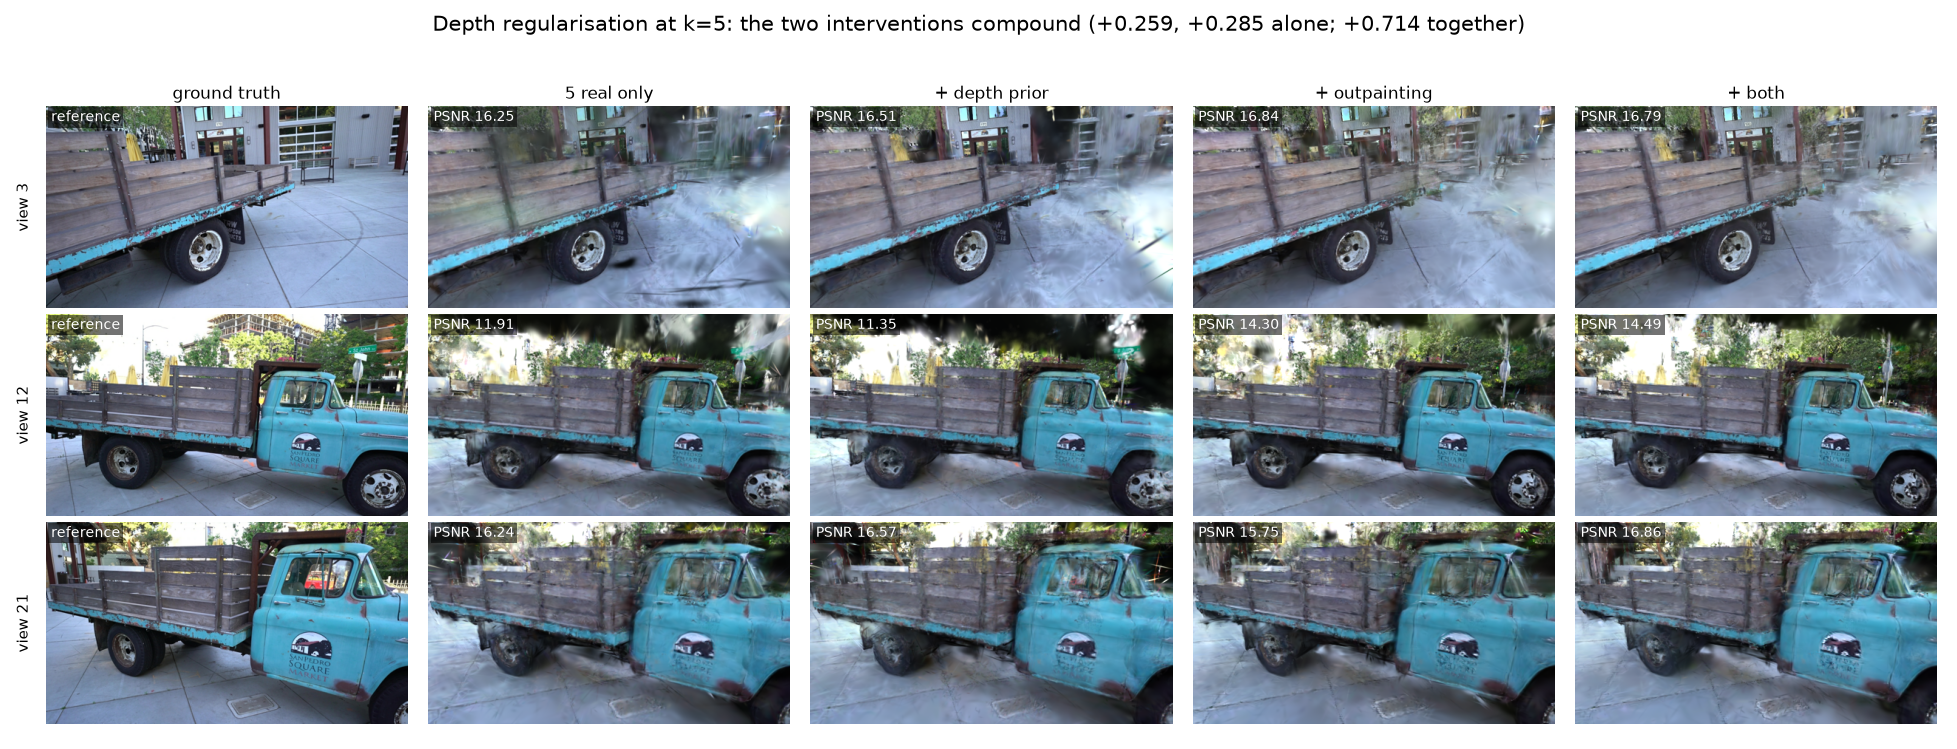
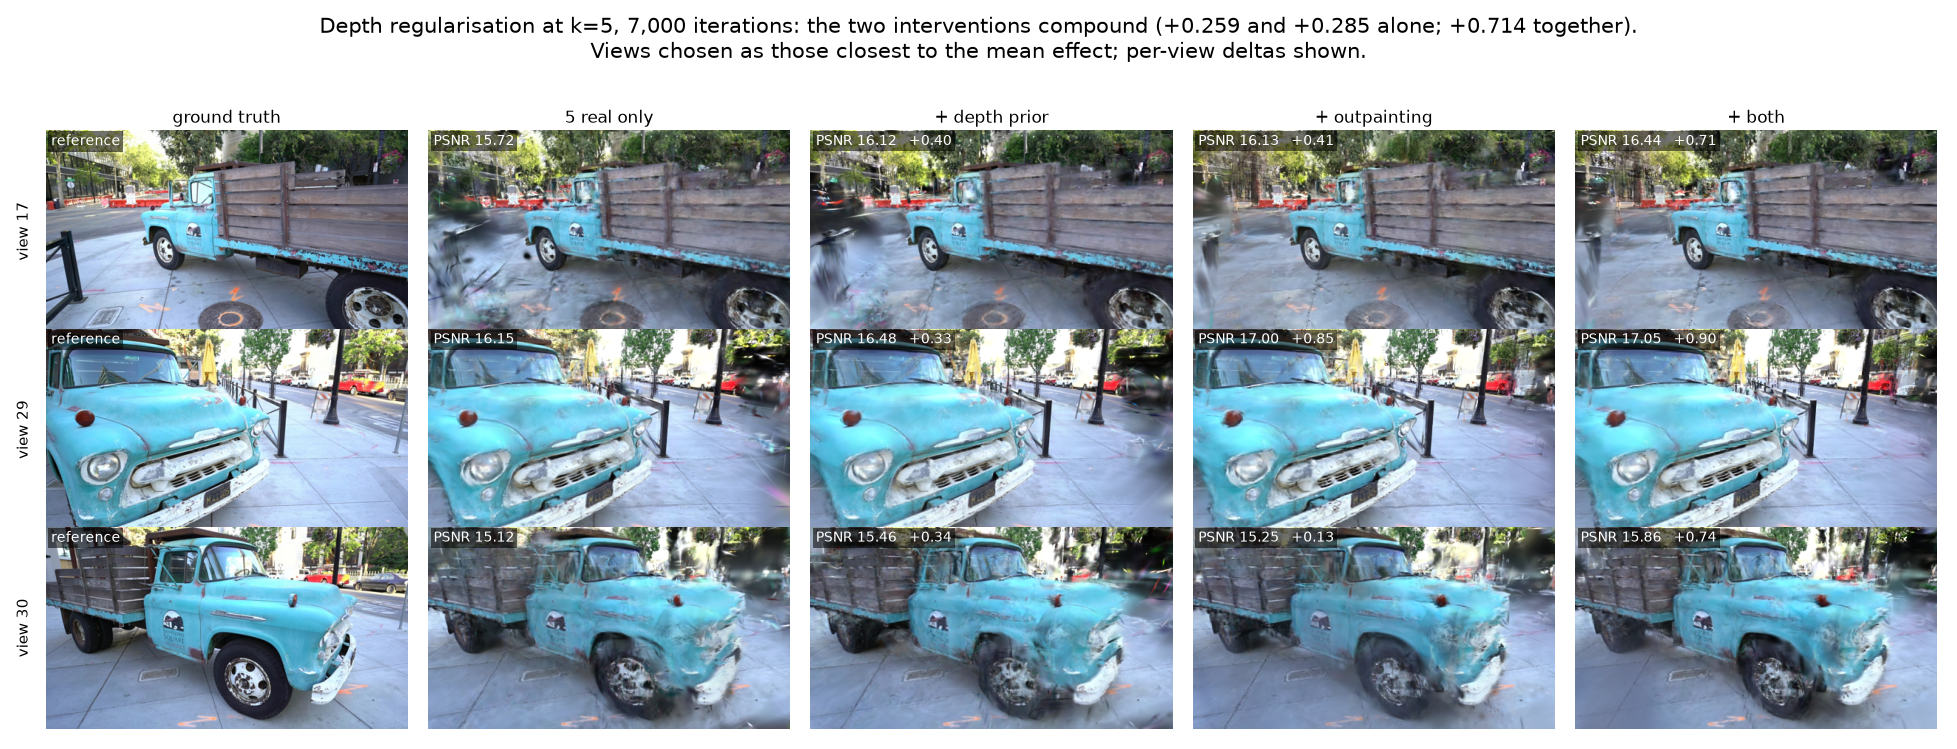
Fix depth_compare.py reporting truck numbers for every scene
run_depth_reg.sh has been scene-parameterised since the drjohnson run, but
the summary it prints at the end had not: depth_compare.py hardcoded both
the scene prefix (truck_) and the output directory (runs/).

So stage 3 of the overnight sweep trained six drjohnson runs correctly,
wrote six correct results.json files, and then printed the TRUCK 2x2
underneath them. The table looked entirely plausible - it is a real table,
with real numbers - and nothing in it named a scene, which is exactly why
it would have been believed.

SCENE and OUTDIR are now environment parameters, defaulting to the previous
truck/runs behaviour so the 7,000-iteration table is unchanged. The header
line now names both, so a table can no longer be mistaken for one belonging
to another scene or another iteration budget.

Nothing downstream consumed this: build_report.py has its own build_depth()
which resolves tags per scene. The damage was confined to the log.

Also in this commit:

- panel_depth() used the arbitrary VIEWS = [3, 12, 21] while quoting mean
  deltas in its caption - the bug already fixed in panel_selection. Per-view
  effects scatter several dB either side of a mean worth tenths, so fixed
  indices can illustrate the opposite of the caption. Now uses
  representative_views() against the +both cell, and shows per-view deltas.

- New panel_depth_30k(), and an at() context manager so the loaders can read
  runs_30k/<tag>/test/ours_30000/ instead of the 7,000 defaults.

diff --git a/src/make_panels_extra.py b/src/make_panels_extra.py
@@ -24,7 +24,29 @@ from __future__ import annotations
 import os
 from pathlib import Path
 
+import make_panels
 from make_panels import OUT, SEED, grid, load, psnr_of
+
+from contextlib import contextmanager
+
+
+@contextmanager
+def at(runs_dir, iters):
+    """Read renders and per-view PSNR from a different sweep.
+
+    load() and psnr_of() resolve make_panels.RUNS and make_panels.ITER at
+    call time, so swapping the module globals redirects them. The 30,000
+    runs live in runs_30k/<tag>/test/ours_30000/ rather than the 7,000
+    defaults, and mixing the two would silently compare a 7k render
+    against a 30k number.
+    """
+    old_runs, old_iter = make_panels.RUNS, make_panels.ITER
+    make_panels.RUNS = ROOT / runs_dir
+    make_panels.ITER = iters
+    try:
+        yield
+    finally:
+        make_panels.RUNS, make_panels.ITER = old_runs, old_iter
 
 ROOT = Path(os.path.expanduser("~/fewshot_gs"))
 
@@ -126,18 +148,65 @@ def panel_crossover():
 
 
 def panel_depth():
+    """The 2x2 at k=5 and 7,000 iterations.
+
+    VIEWS was arbitrary here, which is the bug already fixed in
+    panel_selection: per-view deltas scatter several dB either side of a mean
+    worth a few tenths, so three fixed indices can illustrate the opposite of
+    the caption they sit under. Chosen against +both, the cell the figure is
+    actually about.
+    """
     b = f"truck_k5_seed{SEED}_fps_fake0"
+    both = f"truck_k5_seed{SEED}_fps_outpaint_fake{NF[5]}_depth"
+    dep = f"truck_k5_seed{SEED}_fps_fake0_depth"
+    out = f"truck_k5_seed{SEED}_fps_outpaint_fake{NF[5]}"
     cols = [
         ("ground truth", None),
         ("5 real only", b),
-        ("+ depth prior", f"truck_k5_seed{SEED}_fps_fake0_depth"),
-        ("+ outpainting", f"truck_k5_seed{SEED}_fps_outpaint_fake{NF[5]}"),
-        ("+ both", f"truck_k5_seed{SEED}_fps_outpaint_fake{NF[5]}_depth"),
+        ("+ depth prior", dep),
+        ("+ outpainting", out),
+        ("+ both", both),
     ]
-    rows, labels = cells(cols, VIEWS, b)
+    views = representative_views([(both, b), (dep, b)])
+    rows, labels = cells(cols, views, b,
+                         deltas_vs={dep: b, out: b, both: b})
     grid(rows, [c[0] for c in cols], OUT / "panel_depth.png",
-         "Depth regularisation at k=5: the two interventions compound "
-         "(+0.259, +0.285 alone; +0.714 together)", labels)
+         "Depth regularisation at k=5, 7,000 iterations: the two interventions "
+         "compound (+0.259 and +0.285 alone; +0.714 together).\n"
+         "Views chosen as those closest to the mean effect; per-view deltas shown.",
+         labels)
+
+
+def panel_depth_30k():
+    """The same 2x2 after 30,000 iterations - where the story changes.
+
+    At this budget outpainting on its own is worth -0.078 dB, indistinguishable
+    from zero: the benefit measured at 7,000 is gone. The depth prior is not
+    gone (+0.208), and the two together are worth +0.469 - more than the sum of
+    the parts, and more than either alone. The figure exists because that is a
+    claim about images, not just about a mean: the +outpainting column should
+    look no better than the baseline, while +both still does.
+    """
+    b = f"truck_k5_seed{SEED}_fps_fake0"
+    dep = f"truck_k5_seed{SEED}_fps_fake0_depth"
+    out = f"truck_k5_seed{SEED}_fps_outpaint_fake{NF[5]}"
+    both = f"truck_k5_seed{SEED}_fps_outpaint_fake{NF[5]}_depth"
+    cols = [
+        ("ground truth", None),
+        ("5 real only", b),
+        ("+ depth prior", dep),
+        ("+ outpainting", out),
+        ("+ both", both),
+    ]
+    with at("runs_30k", 30000):
+        views = representative_views([(both, b), (out, b)])
+        rows, labels = cells(cols, views, b,
+                             deltas_vs={dep: b, out: b, both: b})
+        grid(rows, [c[0] for c in cols], OUT / "panel_depth_30k.png",
+             "At 30,000 iterations outpainting alone is worth -0.078 dB (dead), "
+             "the depth prior still +0.208, and the two together +0.469.\n"
+             "Views chosen as those closest to the mean effect; per-view deltas shown.",
+             labels)
 
 
 def panel_scaling():
@@ -258,6 +327,7 @@ def panel_selection():
 if __name__ == "__main__":
     panel_crossover()
     panel_depth()
+    panel_depth_30k()
     panel_scaling()
     panel_control()
     panel_scene2()

diff --git a/src/depth_compare.py b/src/depth_compare.py
@@ -23,9 +23,17 @@ K = int(os.environ.get("K", 5))
 NF = int(os.environ.get("NF", 10))
 SEEDS = (0, 1, 2)
 
+# Which scene, and which iteration budget. Both were hardcoded to truck/7k,
+# so run_depth_reg.sh with SCENE=drjohnson trained six drjohnson runs and
+# then printed the TRUCK table underneath them - a summary that looked
+# entirely correct because nothing in it named a scene. Hence SUBJECT below.
+SCENE = os.environ.get("SCENE", "truck")
+OUTDIR = os.environ.get("OUTDIR", "runs")
+SUBJECT = f"{SCENE}, {OUTDIR}"
+
 
 def psnr(tag):
-    p = ROOT / "runs" / tag / "results.json"
+    p = ROOT / OUTDIR / tag / "results.json"
     if not p.exists():
         return None
     return json.loads(p.read_text())["metrics"]
@@ -40,15 +48,16 @@ def agg(v):
 
 def main():
     cells = {
-        "baseline":      "truck_k{K}_seed{s}_fps_fake0",
-        "+depth":        "truck_k{K}_seed{s}_fps_fake0_depth",
-        "+outpaint":     "truck_k{K}_seed{s}_fps_outpaint_fake{NF}",
-        "+both":         "truck_k{K}_seed{s}_fps_outpaint_fake{NF}_depth",
+        "baseline":      "{SCENE}_k{K}_seed{s}_fps_fake0",
+        "+depth":        "{SCENE}_k{K}_seed{s}_fps_fake0_depth",
+        "+outpaint":     "{SCENE}_k{K}_seed{s}_fps_outpaint_fake{NF}",
+        "+both":         "{SCENE}_k{K}_seed{s}_fps_outpaint_fake{NF}_depth",
     }
 
     got = {}
     for label, pat in cells.items():
-        got[label] = {s: psnr(pat.format(K=K, s=s, NF=NF)) for s in SEEDS}
+        got[label] = {s: psnr(pat.format(SCENE=SCENE, K=K, s=s, NF=NF))
+                      for s in SEEDS}
 
     missing = [f"{l} seed{s}" for l, d in got.items()
                for s, m in d.items() if m is None]
@@ -56,7 +65,8 @@ def main():
         print("missing runs: " + ", ".join(missing))
         print("(run src/run_depth_reg.sh first)\n")
 
-    print(f"=== depth regularisation at k={K}, {len(SEEDS)} seeds ===\n")
+    print(f"=== depth regularisation: {SUBJECT}, "
+          f"k={K}, {len(SEEDS)} seeds ===\n")
     print(f"{'condition':<14} {'PSNR':>16} {'vs baseline':>16} {'SSIM':>9} {'LPIPS':>9}")
     print("-" * 70)
 
